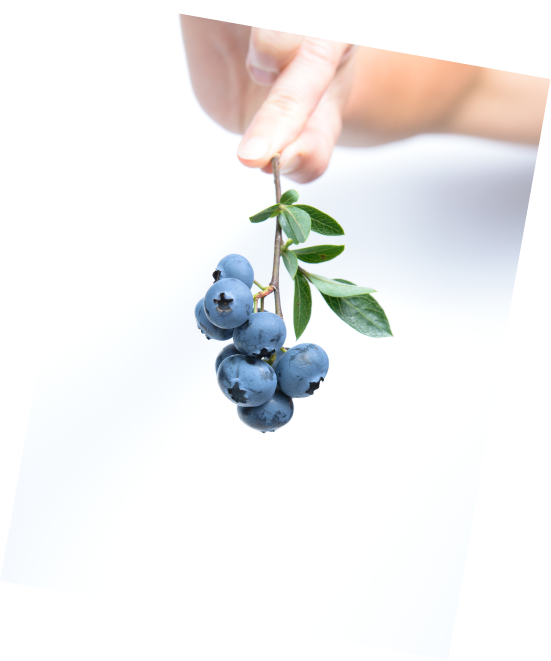
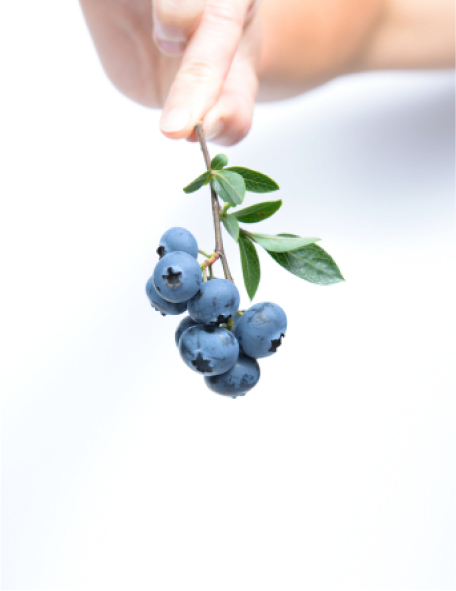
add animation

Changed region(s): [[0.1535, 0.0, 1.0, 0.6701]]

diff --git a/app/css/style.min.css b/app/css/style.min.css
@@ -1,1 +1,1 @@
-/*! normalize.css v8.0.1 | MIT License | github.com/necolas/normalize.css */@import url("https://fonts.googleapis.com/css2?family=Montserrat:wght@300;400;500;600;700&display=swap");html{line-height:1.15;-webkit-text-size-adjust:100%}body{margin:0}main{display:block}h1{font-size:2em;margin:0.67em 0}hr{-webkit-box-sizing:content-box;box-sizing:content-box;height:0;overflow:visible}pre{font-family:monospace, monospace;font-size:1em}a{background-color:transparent}abbr[title]{border-bottom:none;text-decoration:underline;-webkit-text-decoration:underline dotted;text-decoration:underline dotted}b,strong{font-weight:bolder}code,kbd,samp{font-family:monospace, monospace;font-size:1em}small{font-size:80%}sub,sup{font-size:75%;line-height:0;position:relative;vertical-align:baseline}sub{bottom:-0.25em}sup{top:-0.5em}img{border-style:none}button,input,optgroup,select,textarea{font-family:inherit;font-size:100%;line-height:1.15;margin:0}button,input{overflow:visible}button,select{text-transform:none}button,[type="button"],[type="reset"],[type="submit"]{-webkit-appearance:button}button::-moz-focus-inner,[type="button"]::-moz-focus-inner,[type="reset"]::-moz-focus-inner,[type="submit"]::-moz-focus-inner{border-style:none;padding:0}button:-moz-focusring,[type="button"]:-moz-focusring,[type="reset"]:-moz-focusring,[type="submit"]:-moz-focusring{outline:1px dotted ButtonText}fieldset{padding:0.35em 0.75em 0.625em}legend{-webkit-box-sizing:border-box;box-sizing:border-box;color:inherit;display:table;max-width:100%;padding:0;white-space:normal}progress{vertical-align:baseline}textarea{overflow:auto}[type="checkbox"],[type="radio"]{-webkit-box-sizing:border-box;box-sizing:border-box;padding:0}[type="number"]::-webkit-inner-spin-button,[type="number"]::-webkit-outer-spin-button{height:auto}[type="search"]{-webkit-appearance:textfield;outline-offset:-2px}[type="search"]::-webkit-search-decoration{-webkit-appearance:none}::-webkit-file-upload-button{-webkit-appearance:button;font:inherit}details{display:block}summary{display:list-item}template{display:none}[hidden]{display:none}.slick-slider{position:relative;display:block;-webkit-box-sizing:border-box;box-sizing:border-box;-webkit-user-select:none;-moz-user-select:none;-ms-user-select:none;user-select:none;-webkit-touch-callout:none;-khtml-user-select:none;-ms-touch-action:pan-y;touch-action:pan-y;-webkit-tap-highlight-color:transparent}.slick-list{position:relative;display:block;overflow:hidden;margin:0;padding:0}.slick-list:focus{outline:none}.slick-list.dragging{cursor:pointer;cursor:hand}.slick-slider .slick-track,.slick-slider .slick-list{-webkit-transform:translate3d(0, 0, 0);-ms-transform:translate3d(0, 0, 0);transform:translate3d(0, 0, 0)}.slick-track{position:relative;top:0;left:0;display:block;margin-left:auto;margin-right:auto}.slick-track:before,.slick-track:after{display:table;content:''}.slick-track:after{clear:both}.slick-loading .slick-track{visibility:hidden}.slick-slide{display:none;float:left;height:100%;min-height:1px}[dir='rtl'] .slick-slide{float:right}.slick-slide img{display:block}.slick-slide.slick-loading img{display:none}.slick-slide.dragging img{pointer-events:none}.slick-initialized .slick-slide{display:block}.slick-loading .slick-slide{visibility:hidden}.slick-vertical .slick-slide{display:block;height:auto;border:1px solid transparent}.slick-arrow.slick-hidden{display:none}@font-face{font-family:'Ogg';src:url("../fonts/Ogg-Roman.otf") format("otf");font-weight:normal;font-style:normal}body{font-family:"Montserrat", sans-serif;font-weight:400;color:#fff}.container{max-width:1310px;margin:0 auto}ul,li{list-style:none;padding:0;margin:0}a{text-decoration:none;font-size:14px;color:#fff}h1,h2,h3,h4,h5{margin:0}p{margin:0}figure{margin:0}.main{padding:0 0 250px 0;background-color:#98122A}.hero span{font-family:"Ogg";font-weight:400;font-size:26px}.ogg{font-family:"Ogg";font-weight:400}.title{font-size:128px;font-weight:400}.pretitle{font-size:40px;font-weight:400}.main{position:relative;overflow:hidden}.main .main-bg{position:fixed;-webkit-user-select:none;-moz-user-select:none;-ms-user-select:none;user-select:none;font-family:"Ogg";font-size:1600px;font-weight:400;letter-spacing:-0.026em;color:#BF0829;top:-210px;left:-550px;z-index:1}.next{font-family:'Ogg';font-size:1000px;font-weight:400;line-height:90%;color:#0B0B0B;position:absolute;-webkit-user-select:none;-moz-user-select:none;-ms-user-select:none;user-select:none;bottom:-400px;left:-50px;z-index:-1}.header{padding:60px 0;width:1515px;position:fixed;z-index:100;margin:0 187px 0 240px}.header .header__content{display:-webkit-box;display:-ms-flexbox;display:flex;-webkit-box-pack:justify;-ms-flex-pack:justify;justify-content:space-between}.header .nav ul li{display:inline-block}.header .nav ul li:not(:first-child){margin-left:30px}.home{position:relative;margin-top:200px;z-index:99}.home .hero{display:-webkit-box;display:-ms-flexbox;display:flex;-webkit-box-orient:vertical;-webkit-box-direction:normal;-ms-flex-direction:column;flex-direction:column}.home .hero .title-second{-ms-flex-item-align:end;align-self:flex-end}.home .hero .pretitle{-ms-flex-item-align:end;align-self:flex-end}.works{margin-top:15px;display:-webkit-box;display:-ms-flexbox;display:flex;-webkit-box-pack:justify;-ms-flex-pack:justify;justify-content:space-between}.works .works-column{display:-webkit-box;display:-ms-flexbox;display:flex;-webkit-box-orient:vertical;-webkit-box-direction:normal;-ms-flex-direction:column;flex-direction:column}.works .right{margin-top:320px}.works .link{height:635px}.works .link:not(:first-child){margin-top:230px}.link{-webkit-transition:color 300ms cubic-bezier(0.455, 0.03, 0.515, 0.955);-o-transition:color 300ms cubic-bezier(0.455, 0.03, 0.515, 0.955);transition:color 300ms cubic-bezier(0.455, 0.03, 0.515, 0.955)}.link:hover .workImage{-webkit-transform:scale(1.05);-ms-transform:scale(1.05);transform:scale(1.05)}.work-card{width:100%;height:100%;position:relative;overflow:hidden}.work-card .workImage{-webkit-transition:all 300ms cubic-bezier(0.785, 0.135, 0.15, 0.86) 0s;-o-transition:all 300ms cubic-bezier(0.785, 0.135, 0.15, 0.86) 0s;transition:all 300ms cubic-bezier(0.785, 0.135, 0.15, 0.86) 0s}.work-card .describe,.work-card .work-title{position:absolute}.work-card .describe{max-width:136px;font-size:12px;line-height:130%;top:40px;left:40px}.work-card .work-title{font-family:"Ogg";font-size:168px;font-weight:400;-o-text-overflow:clip;text-overflow:clip;bottom:-54px;left:-58px}.about{padding:0 0 100px 0;background-color:#0B0B0B;position:relative;overflow:hidden;z-index:99}.about .about-bg{position:absolute;-webkit-user-select:none;-moz-user-select:none;-ms-user-select:none;user-select:none;font-family:"Ogg";font-size:700px;font-weight:400;line-height:83%;letter-spacing:-0.026em;color:#fff;top:0;left:-270px;z-index:1}.header__about{position:relative;height:100vh}.header__bottom{position:absolute;bottom:60px;color:#fff;max-width:110px;font-size:14px}.about__content{margin-top:270px}.about__content span{font-size:12px}.about__content .about-me{display:-webkit-box;display:-ms-flexbox;display:flex;-webkit-box-pack:justify;-ms-flex-pack:justify;justify-content:space-between;-webkit-box-align:center;-ms-flex-align:center;align-items:center}.about__content .about-me p{max-width:1145px;font-size:52px;line-height:130%}.about__content .contacts{margin-top:170px;display:-webkit-box;display:-ms-flexbox;display:flex;-webkit-box-pack:justify;-ms-flex-pack:justify;justify-content:space-between;-webkit-box-align:center;-ms-flex-align:center;align-items:center}.about__content .contacts ul{margin-left:260px;width:100%;display:-webkit-box;display:-ms-flexbox;display:flex;-webkit-box-pack:justify;-ms-flex-pack:justify;justify-content:space-between}.about__content .contacts ul div{display:-webkit-box;display:-ms-flexbox;display:flex}.about__content .contacts ul div li:not(:first-child){margin-left:30px}.about__content .contacts ul div li a{text-decoration:underline}.project{position:relative;overflow:hidden}.project .header__work{position:relative;overflow:hidden;background-color:#AEB115;height:110vh}.project .header__work .work-bg{position:absolute;-webkit-user-select:none;-moz-user-select:none;-ms-user-select:none;user-select:none;font-family:"Ogg";font-size:700px;font-weight:400;color:#fff;bottom:-150px;left:-270px;z-index:1}.project .work__action{padding-top:200px;max-width:318px;font-size:28px}.project .work__preview{width:100%;display:-webkit-box;display:-ms-flexbox;display:flex;-webkit-box-pack:center;-ms-flex-pack:center;justify-content:center}.project .work__images{position:relative}.project .work__images img{position:absolute}.project .work__images img:nth-child(1){z-index:3}.project .work__images img:nth-child(2){top:70px;left:125px;z-index:2}.project .work__content{margin-top:200px;color:#0B0B0B}.project .work__content .work__pretitle{color:#0B0B0B;font-size:12px;font-weight:400}.project .work__content .work__describe{margin-top:155px;display:-webkit-box;display:-ms-flexbox;display:flex}.project .work__content .work__describe p{max-width:450px;font-size:18px;line-height:28px}.project .work__content .work__describe .links{margin-top:75px}.project .work__content .work__describe .links ul li{display:inline-block}.project .work__content .work__describe .links ul li:not(:first-child){margin-left:30px}.project .work__content .work__describe .links ul li a{color:#0B0B0B;text-decoration:underline;font-size:16px}.project .work__content .work__describe .work__technology{margin-left:265px}.project .work__content .work__describe .work__technology span{display:block;font-size:56px}.project .work__content .work__describe .work__technology span:first-child{margin-bottom:20px}.project .work__content .work{margin-top:200px}.project .work__content .work .work__summary{display:-webkit-box;display:-ms-flexbox;display:flex}.project .work__content .work .work__title{max-width:584px;font-family:'Ogg';font-size:205px;font-weight:400;line-height:184px;margin-right:135px}.project .work__content .work .work__title--md{max-width:591px;font-size:56px;line-height:68px}.project .work__content .work p{margin-top:40px;font-size:18px;line-height:28px;max-width:591px}.project .work__content .work .work__gallery{margin-top:120px}.project .work__content .work .work__gallery .img__container{margin-top:80px;display:-webkit-box;display:-ms-flexbox;display:flex;-webkit-box-pack:justify;-ms-flex-pack:justify;justify-content:space-between}.project .work__content .work .work__gallery .img__container .image-bg{display:-webkit-box;display:-ms-flexbox;display:flex;-webkit-box-pack:center;-ms-flex-pack:center;justify-content:center;-webkit-box-align:center;-ms-flex-align:center;align-items:center;background-color:#F5F3EF}.project .work__content .work .work__gallery .img__container .image-bg-sm{-ms-flex-preferred-size:50%;flex-basis:50%;height:600px}.project .work__content .work .work__gallery .img__container .image-bg-sm:first-child{margin-right:30px}.project .work__content .work .work__gallery .img__container .image-bg-md{-ms-flex-preferred-size:70%;flex-basis:70%;height:500px;margin-right:30px}.project .work__content .work .work__gallery .img__container .image-bg-lg{-ms-flex-preferred-size:100%;flex-basis:100%;height:800px}.project .work__content .work .work__gallery .img__container .fullscreenImage{width:100%;height:auto}.project .work__content .other-projects{margin-top:200px}.project .work__content .other-projects .projects__slider{margin-top:100px;margin-bottom:170px;width:100%;display:-webkit-box;display:-ms-flexbox;display:flex}.project .work__content .other-projects .projects__slider .link{width:365px;height:465px}.project .work__content .other-projects .projects__slider .link:not(:first-child){margin-left:20px}
+/*! normalize.css v8.0.1 | MIT License | github.com/necolas/normalize.css */@import url("https://fonts.googleapis.com/css2?family=Montserrat:wght@300;400;500;600;700&display=swap");html{line-height:1.15;-webkit-text-size-adjust:100%}body{margin:0}main{display:block}h1{font-size:2em;margin:0.67em 0}hr{-webkit-box-sizing:content-box;box-sizing:content-box;height:0;overflow:visible}pre{font-family:monospace, monospace;font-size:1em}a{background-color:transparent}abbr[title]{border-bottom:none;text-decoration:underline;-webkit-text-decoration:underline dotted;text-decoration:underline dotted}b,strong{font-weight:bolder}code,kbd,samp{font-family:monospace, monospace;font-size:1em}small{font-size:80%}sub,sup{font-size:75%;line-height:0;position:relative;vertical-align:baseline}sub{bottom:-0.25em}sup{top:-0.5em}img{border-style:none}button,input,optgroup,select,textarea{font-family:inherit;font-size:100%;line-height:1.15;margin:0}button,input{overflow:visible}button,select{text-transform:none}button,[type="button"],[type="reset"],[type="submit"]{-webkit-appearance:button}button::-moz-focus-inner,[type="button"]::-moz-focus-inner,[type="reset"]::-moz-focus-inner,[type="submit"]::-moz-focus-inner{border-style:none;padding:0}button:-moz-focusring,[type="button"]:-moz-focusring,[type="reset"]:-moz-focusring,[type="submit"]:-moz-focusring{outline:1px dotted ButtonText}fieldset{padding:0.35em 0.75em 0.625em}legend{-webkit-box-sizing:border-box;box-sizing:border-box;color:inherit;display:table;max-width:100%;padding:0;white-space:normal}progress{vertical-align:baseline}textarea{overflow:auto}[type="checkbox"],[type="radio"]{-webkit-box-sizing:border-box;box-sizing:border-box;padding:0}[type="number"]::-webkit-inner-spin-button,[type="number"]::-webkit-outer-spin-button{height:auto}[type="search"]{-webkit-appearance:textfield;outline-offset:-2px}[type="search"]::-webkit-search-decoration{-webkit-appearance:none}::-webkit-file-upload-button{-webkit-appearance:button;font:inherit}details{display:block}summary{display:list-item}template{display:none}[hidden]{display:none}.slick-slider{position:relative;display:block;-webkit-box-sizing:border-box;box-sizing:border-box;-webkit-user-select:none;-moz-user-select:none;-ms-user-select:none;user-select:none;-webkit-touch-callout:none;-khtml-user-select:none;-ms-touch-action:pan-y;touch-action:pan-y;-webkit-tap-highlight-color:transparent}.slick-list{position:relative;display:block;overflow:hidden;margin:0;padding:0}.slick-list:focus{outline:none}.slick-list.dragging{cursor:pointer;cursor:hand}.slick-slider .slick-track,.slick-slider .slick-list{-webkit-transform:translate3d(0, 0, 0);-ms-transform:translate3d(0, 0, 0);transform:translate3d(0, 0, 0)}.slick-track{position:relative;top:0;left:0;display:block;margin-left:auto;margin-right:auto}.slick-track:before,.slick-track:after{display:table;content:''}.slick-track:after{clear:both}.slick-loading .slick-track{visibility:hidden}.slick-slide{display:none;float:left;height:100%;min-height:1px}[dir='rtl'] .slick-slide{float:right}.slick-slide img{display:block}.slick-slide.slick-loading img{display:none}.slick-slide.dragging img{pointer-events:none}.slick-initialized .slick-slide{display:block}.slick-loading .slick-slide{visibility:hidden}.slick-vertical .slick-slide{display:block;height:auto;border:1px solid transparent}.slick-arrow.slick-hidden{display:none}@font-face{font-family:'Ogg';src:url("../fonts/Ogg-Roman.otf") format("otf");font-weight:normal;font-style:normal}body{font-family:"Montserrat", sans-serif;font-weight:400;color:#fff}.container{max-width:1310px;margin:0 auto}ul,li{list-style:none;padding:0;margin:0}a{text-decoration:none;font-size:14px;color:#fff}h1,h2,h3,h4,h5{margin:0}p{margin:0}figure{margin:0}.main{padding:0 0 250px 0;background-color:#98122A}.hero span{font-family:"Ogg";font-weight:400;font-size:26px}.ogg{font-family:"Ogg";font-weight:400}.title{font-size:128px;font-weight:400}.pretitle{font-size:40px;font-weight:400}.nav__link--black{color:#0B0B0B}.main{position:relative;overflow:hidden}.main .main-bg{position:fixed;-webkit-user-select:none;-moz-user-select:none;-ms-user-select:none;user-select:none;font-family:"Ogg";font-size:1600px;font-weight:400;letter-spacing:-0.026em;color:#BF0829;top:-210px;left:-550px;z-index:1}.next{font-family:'Ogg';font-size:1000px;font-weight:400;line-height:90%;color:#0B0B0B;position:absolute;-webkit-user-select:none;-moz-user-select:none;-ms-user-select:none;user-select:none;bottom:-400px;left:-50px;z-index:-1}.secondImage{-webkit-transition:all 0.8s ease 0s;-o-transition:all 0.8s ease 0s;transition:all 0.8s ease 0s}.secondImage._active{-webkit-transform:rotate(10deg);-ms-transform:rotate(10deg);transform:rotate(10deg)}.work__action{opacity:0;-webkit-transition:all 0.8s ease 0s;-o-transition:all 0.8s ease 0s;transition:all 0.8s ease 0s}.work__action._active{opacity:1}.container .work__content._active ~ .header__work .header .nav ul li a{color:#0B0B0B}.header{padding:60px 0;width:1515px;position:fixed;z-index:100;margin:0 187px 0 240px}.header .header__content{display:-webkit-box;display:-ms-flexbox;display:flex;-webkit-box-pack:justify;-ms-flex-pack:justify;justify-content:space-between}.header .nav ul li{display:inline-block}.header .nav ul li:not(:first-child){margin-left:30px}.header .nav ul li a{-webkit-transition:all 0.8s ease 0s;-o-transition:all 0.8s ease 0s;transition:all 0.8s ease 0s}.home{position:relative;margin-top:200px;z-index:99}.home .hero{display:-webkit-box;display:-ms-flexbox;display:flex;-webkit-box-orient:vertical;-webkit-box-direction:normal;-ms-flex-direction:column;flex-direction:column}.home .hero .title-second{-ms-flex-item-align:end;align-self:flex-end}.home .hero .pretitle{-ms-flex-item-align:end;align-self:flex-end}.works{margin-top:15px;display:-webkit-box;display:-ms-flexbox;display:flex;-webkit-box-pack:justify;-ms-flex-pack:justify;justify-content:space-between}.works .works-column{display:-webkit-box;display:-ms-flexbox;display:flex;-webkit-box-orient:vertical;-webkit-box-direction:normal;-ms-flex-direction:column;flex-direction:column}.works .right{margin-top:320px}.works .link{height:635px}.works .link:not(:first-child){margin-top:230px}.link{-webkit-transition:color 300ms cubic-bezier(0.455, 0.03, 0.515, 0.955);-o-transition:color 300ms cubic-bezier(0.455, 0.03, 0.515, 0.955);transition:color 300ms cubic-bezier(0.455, 0.03, 0.515, 0.955)}.link:hover .workImage{-webkit-transform:scale(1.05);-ms-transform:scale(1.05);transform:scale(1.05)}.work-card{width:100%;height:100%;position:relative;overflow:hidden}.work-card .workImage{-webkit-transition:all 300ms cubic-bezier(0.785, 0.135, 0.15, 0.86) 0s;-o-transition:all 300ms cubic-bezier(0.785, 0.135, 0.15, 0.86) 0s;transition:all 300ms cubic-bezier(0.785, 0.135, 0.15, 0.86) 0s}.work-card .describe,.work-card .work-title{position:absolute}.work-card .describe{max-width:136px;font-size:12px;line-height:130%;top:40px;left:40px}.work-card .work-title{font-family:"Ogg";font-size:168px;font-weight:400;-o-text-overflow:clip;text-overflow:clip;bottom:-54px;left:-58px}.about{padding:0 0 100px 0;background-color:#0B0B0B;position:relative;overflow:hidden;z-index:99}.about .about-bg{position:absolute;-webkit-user-select:none;-moz-user-select:none;-ms-user-select:none;user-select:none;font-family:"Ogg";font-size:700px;font-weight:400;line-height:83%;letter-spacing:-0.026em;color:#fff;top:0;left:-270px;z-index:1}.header__about{position:relative;height:100vh}.header__bottom{position:absolute;bottom:60px;color:#fff;max-width:110px;font-size:14px}.about__content{margin-top:270px}.about__content span{font-size:12px}.about__content .about-me{display:-webkit-box;display:-ms-flexbox;display:flex;-webkit-box-pack:justify;-ms-flex-pack:justify;justify-content:space-between;-webkit-box-align:center;-ms-flex-align:center;align-items:center}.about__content .about-me p{max-width:1145px;font-size:52px;line-height:130%}.about__content .contacts{margin-top:170px;display:-webkit-box;display:-ms-flexbox;display:flex;-webkit-box-pack:justify;-ms-flex-pack:justify;justify-content:space-between;-webkit-box-align:center;-ms-flex-align:center;align-items:center}.about__content .contacts ul{margin-left:260px;width:100%;display:-webkit-box;display:-ms-flexbox;display:flex;-webkit-box-pack:justify;-ms-flex-pack:justify;justify-content:space-between}.about__content .contacts ul div{display:-webkit-box;display:-ms-flexbox;display:flex}.about__content .contacts ul div li:not(:first-child){margin-left:30px}.about__content .contacts ul div li a{text-decoration:underline}.project{position:relative;overflow:hidden}.project .header__work{position:relative;overflow:hidden;background-color:#AEB115;height:110vh}.project .header__work .work-bg{position:absolute;-webkit-user-select:none;-moz-user-select:none;-ms-user-select:none;user-select:none;font-family:"Ogg";font-size:700px;font-weight:400;color:#fff;bottom:-150px;left:-270px;z-index:1}.project .work__action{padding-top:200px;max-width:318px;font-size:28px}.project .work__preview{width:100%;display:-webkit-box;display:-ms-flexbox;display:flex;-webkit-box-pack:center;-ms-flex-pack:center;justify-content:center}.project .work__images{position:relative}.project .work__images img{position:absolute}.project .work__images img:nth-child(1){z-index:3}.project .work__images img:nth-child(2){top:70px;left:125px;z-index:2}.project .work__content{margin-top:200px;color:#0B0B0B}.project .work__content .work__pretitle{color:#0B0B0B;font-size:12px;font-weight:400}.project .work__content .work__describe{margin-top:155px;display:-webkit-box;display:-ms-flexbox;display:flex}.project .work__content .work__describe p{max-width:450px;font-size:18px;line-height:28px}.project .work__content .work__describe .links{margin-top:75px}.project .work__content .work__describe .links ul li{display:inline-block}.project .work__content .work__describe .links ul li:not(:first-child){margin-left:30px}.project .work__content .work__describe .links ul li a{color:#0B0B0B;text-decoration:underline;font-size:16px}.project .work__content .work__describe .work__technology{margin-left:265px}.project .work__content .work__describe .work__technology span{display:block;font-size:56px}.project .work__content .work__describe .work__technology span:first-child{margin-bottom:20px}.project .work__content .work{margin-top:200px}.project .work__content .work .work__summary{display:-webkit-box;display:-ms-flexbox;display:flex}.project .work__content .work .work__title{max-width:584px;font-family:'Ogg';font-size:205px;font-weight:400;line-height:184px;margin-right:135px}.project .work__content .work .work__title--md{max-width:591px;font-size:56px;line-height:68px}.project .work__content .work p{margin-top:40px;font-size:18px;line-height:28px;max-width:591px}.project .work__content .work .work__gallery{margin-top:120px}.project .work__content .work .work__gallery .img__container{margin-top:80px;display:-webkit-box;display:-ms-flexbox;display:flex;-webkit-box-pack:justify;-ms-flex-pack:justify;justify-content:space-between}.project .work__content .work .work__gallery .img__container .image-bg{display:-webkit-box;display:-ms-flexbox;display:flex;-webkit-box-pack:center;-ms-flex-pack:center;justify-content:center;-webkit-box-align:center;-ms-flex-align:center;align-items:center;background-color:#F5F3EF}.project .work__content .work .work__gallery .img__container .image-bg-sm{-ms-flex-preferred-size:50%;flex-basis:50%;height:600px}.project .work__content .work .work__gallery .img__container .image-bg-sm:first-child{margin-right:30px}.project .work__content .work .work__gallery .img__container .image-bg-md{-ms-flex-preferred-size:70%;flex-basis:70%;height:500px;margin-right:30px}.project .work__content .work .work__gallery .img__container .image-bg-lg{-ms-flex-preferred-size:100%;flex-basis:100%;height:800px}.project .work__content .work .work__gallery .img__container .fullscreenImage{width:100%;height:auto}.project .work__content .other-projects{margin-top:200px}.project .work__content .other-projects .projects__slider{margin-top:100px;margin-bottom:170px;width:100%;display:-webkit-box;display:-ms-flexbox;display:flex}.project .work__content .other-projects .projects__slider .link{width:365px;height:465px}.project .work__content .other-projects .projects__slider .link:not(:first-child){margin-left:20px}

diff --git a/app/organic-food.html b/app/organic-food.html
@@ -13,29 +13,29 @@
         <div class="header__work">
             <header class="header">
                 <div class="header__content">
-                    <a href="./index.html" class="logo">d.kov</a>
+                    <a href="./index.html" class="logo nav__link">d.kov</a>
                     <nav class="nav">
                         <ul>
                             <li>
-                                <a href="./index.html">Home</a>
+                                <a href="./index.html" class="nav__link">Home</a>
                             </li>
                             <li>
-                                <a href="./about.html">About</a>
+                                <a href="./about.html" class="nav__link">About</a>
                             </li>
                         </ul>
                     </nav>
                 </div>
             </header>
             <div class="container">
-                <div class="work__action">
+                <div class="work__action _anim-items">
                     Farm fresh fruits.
                     Delivered to your door.
                 </div>
 
                 <div class="work__preview">
                     <div class="work__images">
-                        <img src="./img/organic-food-1.png" alt="organic-food">
-                        <img src="./img/organic-food-2.png" alt="organic-food">
+                        <img src="./img/organic-food-1.png" alt="organic-food" class="firstImage">
+                        <img src="./img/organic-food-2.png" alt="organic-food" class="secondImage _anim-items">
                     </div>
                 </div>
             </div>
@@ -44,7 +44,7 @@
 
 
         <div class="container">
-            <div class="work__content">
+            <div class="work__content _anim-items">
                 <h3 class="work__pretitle">Description</h3>
 
                 <div class="work__describe">
@@ -151,6 +151,10 @@
 
         <div class="next">Next</div>
     </section>
+
+    <script src="https://ajax.googleapis.com/ajax/libs/jquery/3.4.1/jquery.min.js"></script>
+    <script src="js/libs.min.js"></script>
+    <script src="js/main.js"></script>
 </body>
 
 </html>

diff --git a/app/js/main.js b/app/js/main.js
@@ -1,6 +1,49 @@
-$(function(){
+const animItems = document.querySelectorAll('._anim-items');
+const navLinks = document.querySelectorAll('.nav__link')
 
+if (animItems.length > 0) {
+    window.addEventListener('scroll', animOnScroll);
+    function animOnScroll() {
+        for (let index = 0; index < animItems.length; index++) {
+            const animItem = animItems[index];
+            const animItemHeight = animItem.offsetHeight;
+            const animItemOffset = offset(animItem).top;
+            const animStart = 4;
 
+            let animItemPoint = window.innerHeight - animItemHeight / animStart;
+            if (animItemHeight > window.innerHeight) {
+                animItemPoint = window.innerHeight - window.innerHeight / animStart;
+            }
 
-  
-});
+            if ((pageYOffset > animItemOffset - animItemPoint) && pageYOffset < (animItemOffset + animItemHeight)) {
+                animItem.classList.add('_active');
+
+                if (animItem.classList.contains('work__content')) {
+                    for (let i = 0; i < navLinks.length; i++) {
+                        const navLink = navLinks[i];
+                        navLink.classList.add('nav__link--black')
+                    }
+                }
+            } else {
+                if (!animItem.classList.contains('_anim-no-hide')) {
+                    animItem.classList.remove('_active');
+                }
+
+                for (let i = 0; i < navLinks.length; i++) {
+                    const navLink = navLinks[i];
+                    navLink.classList.remove('nav__link--black')
+                }
+            }
+        }
+    }
+    function offset(el) {
+        const rect = el.getBoundingClientRect(),
+            scrollLeft = window.pageXOffset || document.documentElement.scrollLeft,
+            scrollTop = window.pageYOffset || document.documentElement.scrollTop;
+        return { top: rect.top + scrollTop, left: rect.left + scrollLeft }
+    }
+
+    setTimeout(() => {
+        animOnScroll();
+    }, 300);
+}

diff --git a/app/scss/style.scss b/app/scss/style.scss
@@ -71,6 +71,10 @@ figure {
   font-weight: 400;
 }
 
+.nav__link--black {
+  color: $black;
+}
+
 .main {
   position: relative;
   overflow: hidden;
@@ -102,6 +106,28 @@ figure {
   bottom: -400px;
   left: -50px;
   z-index: -1;
+}
+
+.secondImage {
+  transition: all 0.8s ease 0s;
+}
+
+.secondImage._active {
+  transform: rotate(10deg);
+
+}
+
+.work__action {
+  opacity: 0;
+  transition: all 0.8s ease 0s;
+}
+
+.work__action._active {
+  opacity: 1;
+}
+
+.container .work__content._active ~ .header__work .header .nav ul li a {
+  color: $black;
 }
 
 @import "media";

diff --git a/app/about.html b/app/about.html
@@ -69,6 +69,9 @@
     <span class="about-bg">Dmitriy Kovalenko</span>
   </section>
 
+  <script src="https://ajax.googleapis.com/ajax/libs/jquery/3.4.1/jquery.min.js"></script>
+  <script src="js/libs.min.js"></script>
+  <script src="js/main.js"></script>
 </body>
 
 </html>

diff --git a/app/scss/_header.scss b/app/scss/_header.scss
@@ -19,6 +19,10 @@
         &:not(:first-child) {
           margin-left: 30px;
         }
+
+        a {
+          transition: all 0.8s ease 0s;
+        }
       }
     }
   }
